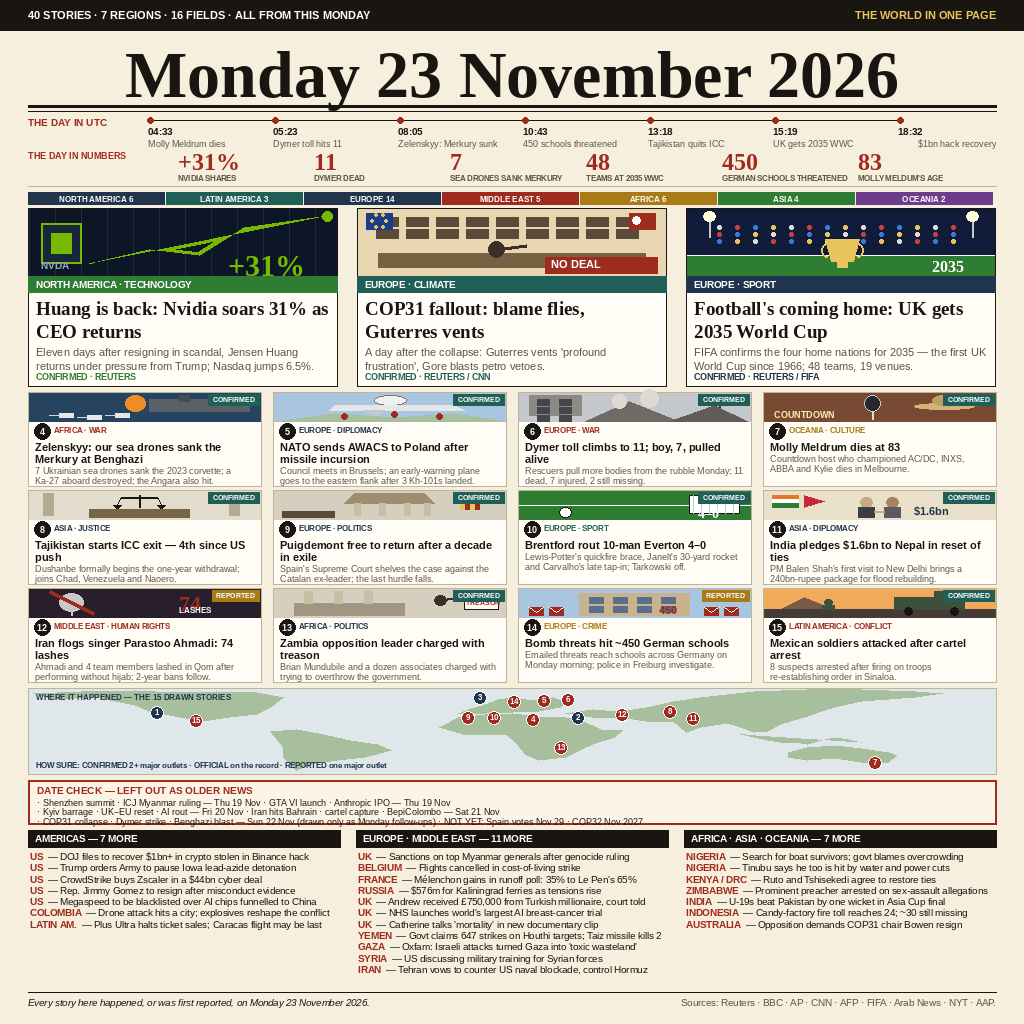
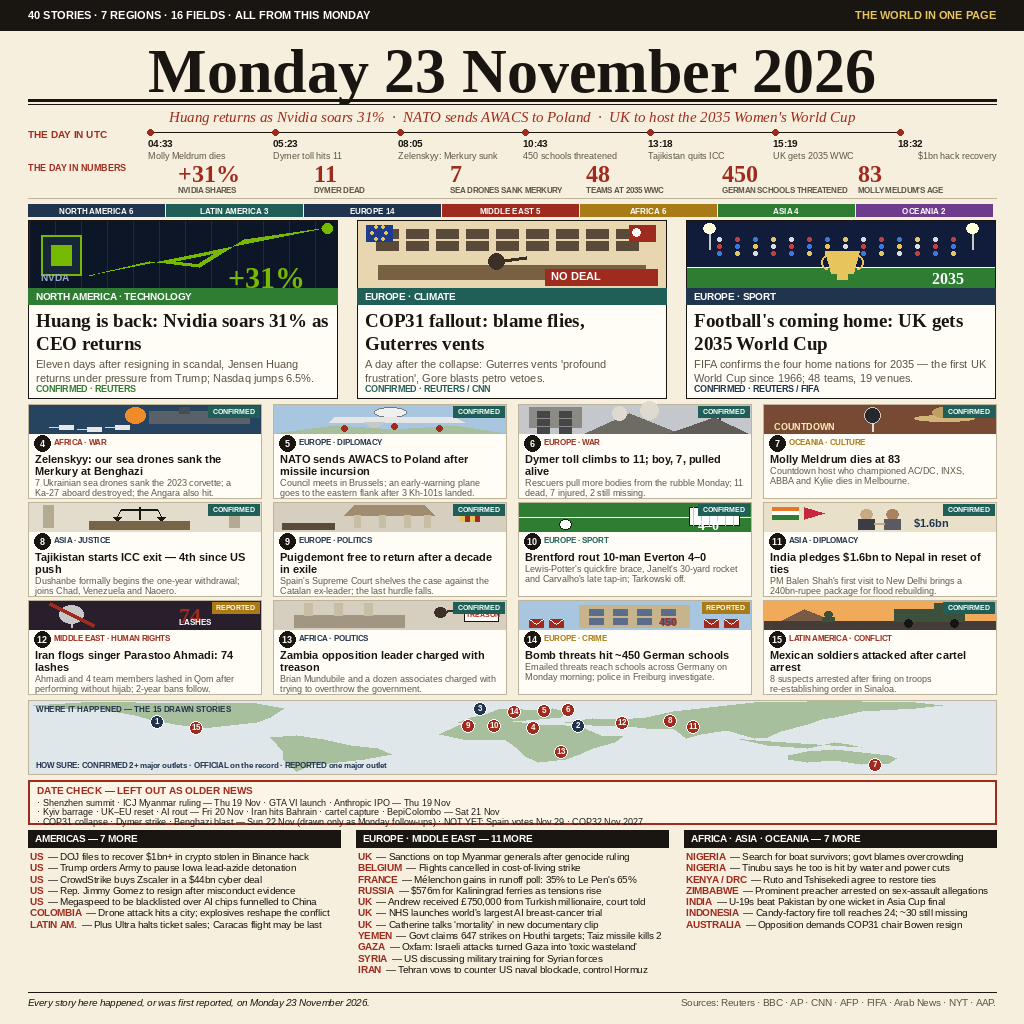
Add red-italic dek line under masthead (R17); map band 86→74px to fit

Changed region(s): [[0.0312, 0.0312, 1.0, 0.75], [0.3125, 0.7188, 0.375, 0.75]]

diff --git a/README.md b/README.md
@@ -4,7 +4,7 @@
 [![rank](https://make.fun/badge/news-image-20261123/riansj2290/news-image-20261123-entry/rank.svg)](https://make.fun/bounty/news-image-20261123/leaderboard?utm_source=github&utm_medium=readme&utm_campaign=news-image-20261123)
 [![reward](https://make.fun/badge/news-image-20261123/riansj2290/news-image-20261123-entry/reward.svg)](https://make.fun/bounty/news-image-20261123?utm_source=github&utm_medium=readme&utm_campaign=news-image-20261123)
 
-**The World in One Page — Monday 23 November 2026.** A single 1024×1024 broadsheet image summing up the whole of Monday 23 November 2026's world news: **40 stories, 7 regions, 16 fields** — 3 hero panels (Jensen Huang reinstated as Nvidia CEO as the shares soar 31% and the Nasdaq jumps 6.5%; the COP31 fallout a day after the collapse, with Guterres venting his "profound frustration"; FIFA confirming the UK as the 2035 Women's World Cup host, the first World Cup in Britain since 1966), 12 numbered panels with a matching numbered world map (Zelenskyy claiming Ukraine's sea drones sank the Merkury at Benghazi, NATO sending AWACS to Poland after the missile incursion, the Dymer toll climbing to 11 with a 7-year-old boy pulled alive, Molly Meldrum's death at 83, Tajikistan starting its ICC exit, Puigdemont free to return after a decade in exile, Brentford's 4–0 rout of 10-man Everton, and more), a UTC timeline of the day, a THE DAY IN NUMBERS strip (+31%, 11, 7, 48, 450, 83), and 25 one-line briefs grouped by region. Every story carries its source and a CONFIRMED / REPORTED tag, a HOW SURE legend explains the tags, and a DATE CHECK box lists the famous stories deliberately left out as older news — the Shenzhen summit and the ICJ Myanmar ruling (Thu 19 Nov), the Kyiv barrage and the AI rout (Fri 20 Nov), Iran's Bahrain strike and the cartel capture (Sat 21 Nov), the COP31 collapse, the Dymer strike and the Benghazi blast (Sun 22 Nov, drawn only as Monday follow-ups).
+**The World in One Page — Monday 23 November 2026.** A single 1024×1024 broadsheet image summing up the whole of Monday 23 November 2026's world news: **40 stories, 7 regions, 16 fields** — 3 hero panels (Jensen Huang reinstated as Nvidia CEO as the shares soar 31% and the Nasdaq jumps 6.5%; the COP31 fallout a day after the collapse, with Guterres venting his "profound frustration"; FIFA confirming the UK as the 2035 Women's World Cup host, the first World Cup in Britain since 1966), 12 numbered panels with a matching numbered world map (Zelenskyy claiming Ukraine's sea drones sank the Merkury at Benghazi, NATO sending AWACS to Poland after the missile incursion, the Dymer toll climbing to 11 with a 7-year-old boy pulled alive, Molly Meldrum's death at 83, Tajikistan starting its ICC exit, Puigdemont free to return after a decade in exile, Brentford's 4–0 rout of 10-man Everton, and more), a UTC timeline of the day, a red-italic dek line under the masthead naming the top three stories, a THE DAY IN NUMBERS strip (+31%, 11, 7, 48, 450, 83), and 25 one-line briefs grouped by region. Every story carries its source and a CONFIRMED / REPORTED tag, a HOW SURE legend explains the tags, and a DATE CHECK box lists the famous stories deliberately left out as older news — the Shenzhen summit and the ICJ Myanmar ruling (Thu 19 Nov), the Kyiv barrage and the AI rout (Fri 20 Nov), Iran's Bahrain strike and the cartel capture (Sat 21 Nov), the COP31 collapse, the Dymer strike and the Benghazi blast (Sun 22 Nov, drawn only as Monday follow-ups).
 
 ## How it was built
 
